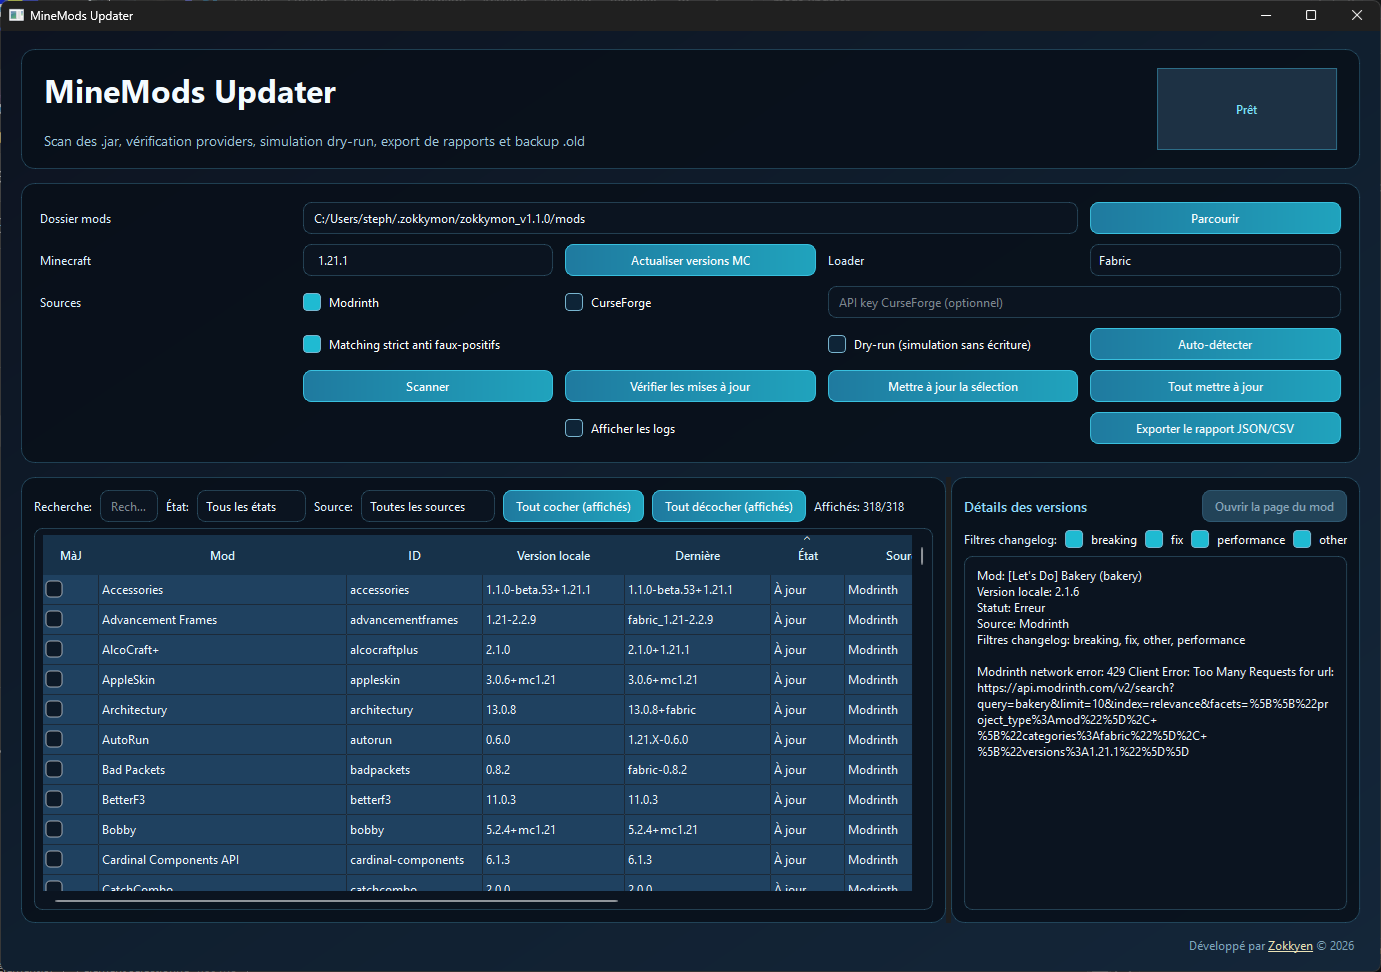
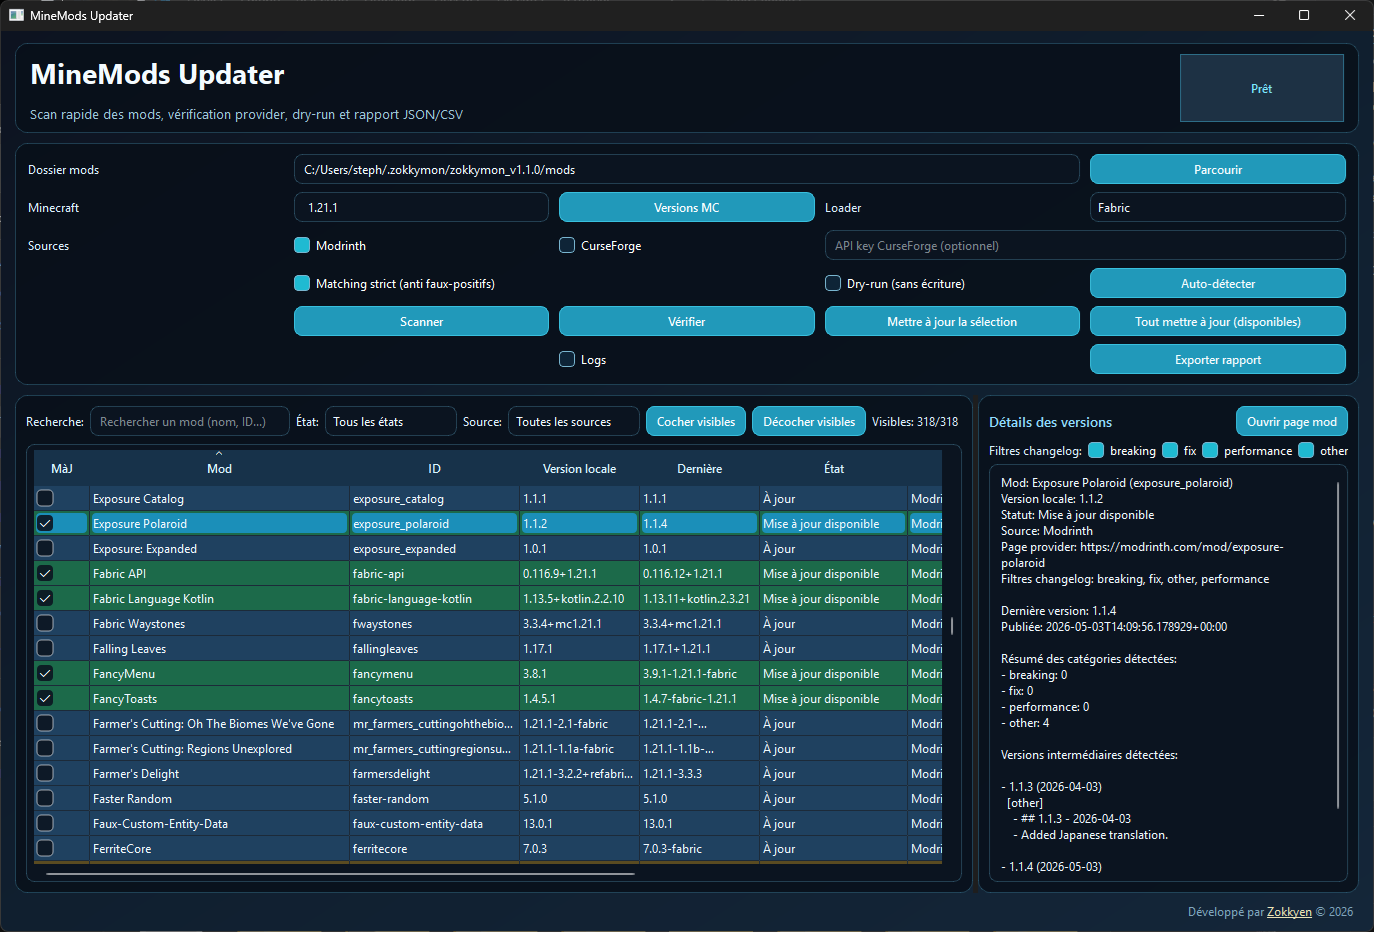
Ajout d'une largeur minimale à la fenêtre de démarrage, ajustement de l'interface utilisateur et amélioration de la recherche de mods

diff --git a/src/mods_updater/ui.py b/src/mods_updater/ui.py
@@ -74,8 +74,25 @@ class MainWindow(QtWidgets.QMainWindow):
 
         self._build_ui()
         self._apply_theme()
+        self._apply_startup_min_width()
         self._load_settings_to_form()
         self._refresh_minecraft_versions(background=True)
+
+    def _apply_startup_min_width(self) -> None:
+        """Start at the effective minimal width to avoid unnecessary horizontal slack."""
+        min_hint = self.minimumSizeHint()
+        min_width = int(min_hint.width())
+        min_height = int(min_hint.height())
+
+        if min_width > 0:
+            self.setMinimumWidth(min_width)
+
+        if min_height > 0:
+            self.setMinimumHeight(min_height)
+
+        target_width = max(min_width, self.width()) if min_width <= 0 else min_width
+        target_height = max(self.height(), min_height)
+        self.resize(target_width, target_height)
 
     def _build_ui(self) -> None:
         root = QtWidgets.QWidget()
@@ -216,8 +233,8 @@ class MainWindow(QtWidgets.QMainWindow):
         table_filters.setSpacing(6)
 
         self.mods_search_input = QtWidgets.QLineEdit()
-        self.mods_search_input.setPlaceholderText("Rechercher un mod (nom, ID, fichier)")
-        self.mods_search_input.setMinimumWidth(460)
+        self.mods_search_input.setPlaceholderText("Rechercher un mod (nom, ID...)")
+        self.mods_search_input.setMinimumWidth(200)
         self.mods_search_input.setClearButtonEnabled(True)
         self.mods_search_input.textChanged.connect(self._on_table_filter_changed)
 
@@ -250,7 +267,7 @@ class MainWindow(QtWidgets.QMainWindow):
         self.visible_count_label.setObjectName("visibleCount")
 
         table_filters.addWidget(QtWidgets.QLabel("Recherche:"))
-        table_filters.addWidget(self.mods_search_input, 4)
+        table_filters.addWidget(self.mods_search_input, 3)
         table_filters.addWidget(QtWidgets.QLabel("État:"))
         table_filters.addWidget(self.status_filter_combo)
         table_filters.addWidget(QtWidgets.QLabel("Source:"))
@@ -443,9 +460,7 @@ class MainWindow(QtWidgets.QMainWindow):
                 width: 20px;
             }
             QPushButton {
-                background: qlineargradient(x1:0, y1:0, x2:1, y2:0,
-                    stop:0 #1f7a9f,
-                    stop:1 #20a3bd);
+                background: #2199ba;
                 border: 1px solid #39c0de;
                 border-radius: 8px;
                 padding: 6px 10px;
@@ -453,9 +468,7 @@ class MainWindow(QtWidgets.QMainWindow):
                 font-weight: 600;
             }
             QPushButton:hover {
-                background: qlineargradient(x1:0, y1:0, x2:1, y2:0,
-                    stop:0 #258cb5,
-                    stop:1 #28b8d4);
+                background: #26a8c9;
             }
             QPushButton:disabled {
                 background: #224358;
